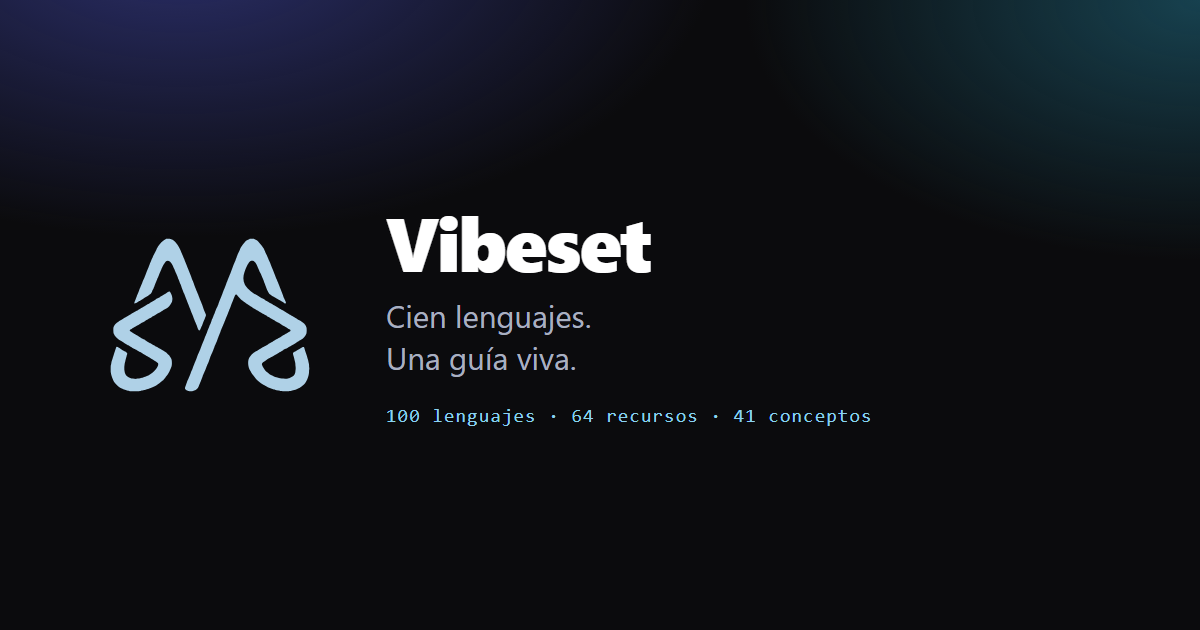
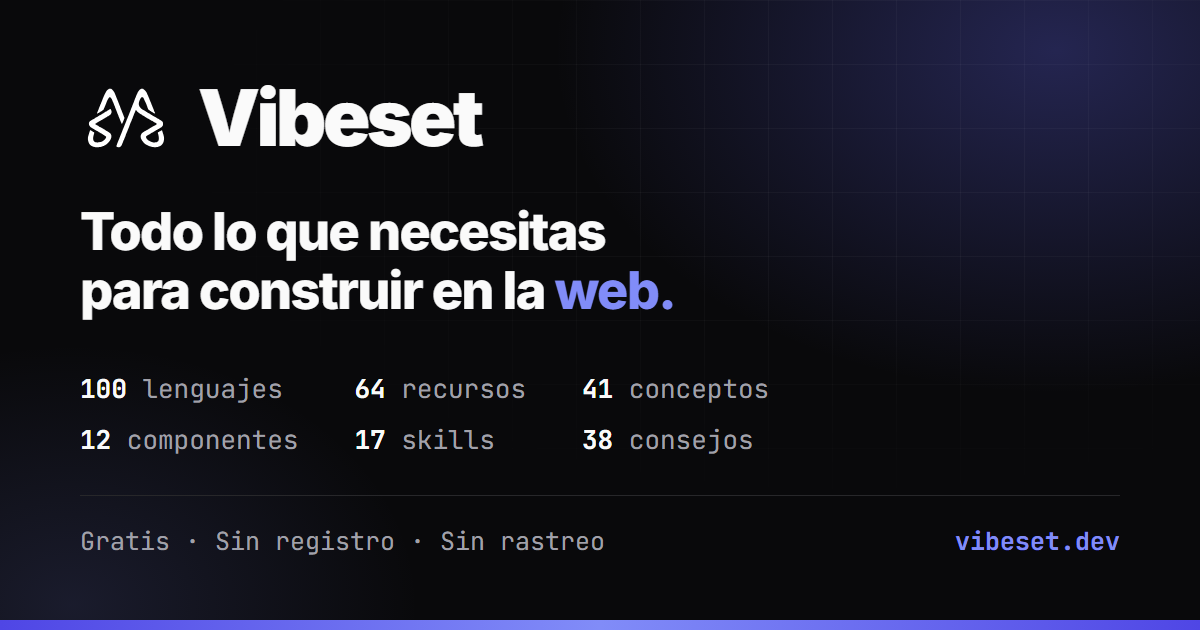
feat: the share card shows the site that exists, and regenerates itself
It still read "Cien lenguajes. Una guía viva", which was the project before the
rename: no components, no skills, no tips, and only in Spanish. That is the first
thing anyone sees when the link is pasted anywhere.

The new card is generated from the catalogue by `pnpm tarjeta`, in both
languages, so the numbers cannot go stale again the way they did. It waits for
the webfonts to load before capturing, which is why the type is the brand's and
not the system's.

The old template in .claude/og.html was staler than the image it was supposed to
produce - it still pointed at mun1to.github.io/Vibeset - so it is not the source
any more.

diff --git a/redesign/index.html b/redesign/index.html
@@ -44,14 +44,21 @@
     <meta property="og:type" content="website" />
     <meta property="og:site_name" content="Vibeset" />
     <meta property="og:title" content="Vibeset · Un sitio con todo lo que necesitas para construir en la web" />
-    <meta property="og:description" content="100 lenguajes con datos reales, 64 recursos de frontend, 41 conceptos de diseño web, 12 componentes en vivo y 17 skills de agente. Gratis, bilingüe y sin rastreo." />
+    <meta property="og:description" content="100 lenguajes, 64 recursos, 41 conceptos web, 12 componentes en vivo, 17 skills de agente y 38 consejos. Gratis, bilingüe, sin registro y sin rastreo." />
     <meta property="og:url" content="https://vibeset.dev/" />
     <meta property="og:locale" content="es_ES" />
     <meta property="og:locale:alternate" content="en_US" />
+    <!-- La tarjeta se regenera del catálogo con `pnpm tarjeta`, nunca a mano: la
+         anterior siguió diciendo «Cien lenguajes. Una guía viva» meses después de
+         que el sitio creciera a seis secciones. El ancho y el alto declarados
+         evitan que algunos clientes tarden una carga extra en dibujarla. -->
     <meta property="og:image" content="https://vibeset.dev/brand/og.png" />
+    <meta property="og:image:width" content="1200" />
+    <meta property="og:image:height" content="630" />
+    <meta property="og:image:alt" content="Vibeset · 100 lenguajes, 64 recursos, 41 conceptos, 12 componentes, 17 skills y 38 consejos" />
     <meta name="twitter:card" content="summary_large_image" />
     <meta name="twitter:title" content="Vibeset · Un sitio con todo lo que necesitas para construir en la web" />
-    <meta name="twitter:description" content="100 lenguajes con datos reales, 64 recursos de frontend, 41 conceptos de diseño web, 12 componentes en vivo y 17 skills de agente." />
+    <meta name="twitter:description" content="100 lenguajes, 64 recursos, 41 conceptos web, 12 componentes en vivo, 17 skills de agente y 38 consejos." />
     <meta name="twitter:image" content="https://vibeset.dev/brand/og.png" />
 
     <link rel="preconnect" href="https://fonts.googleapis.com" />
